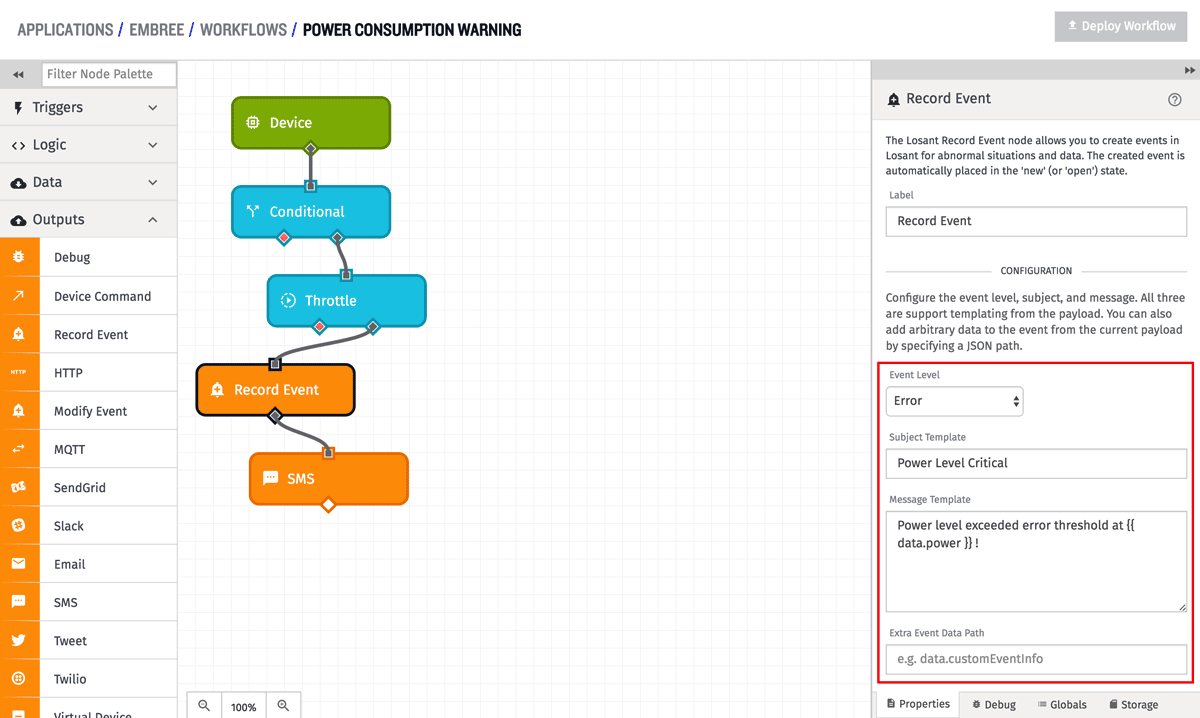
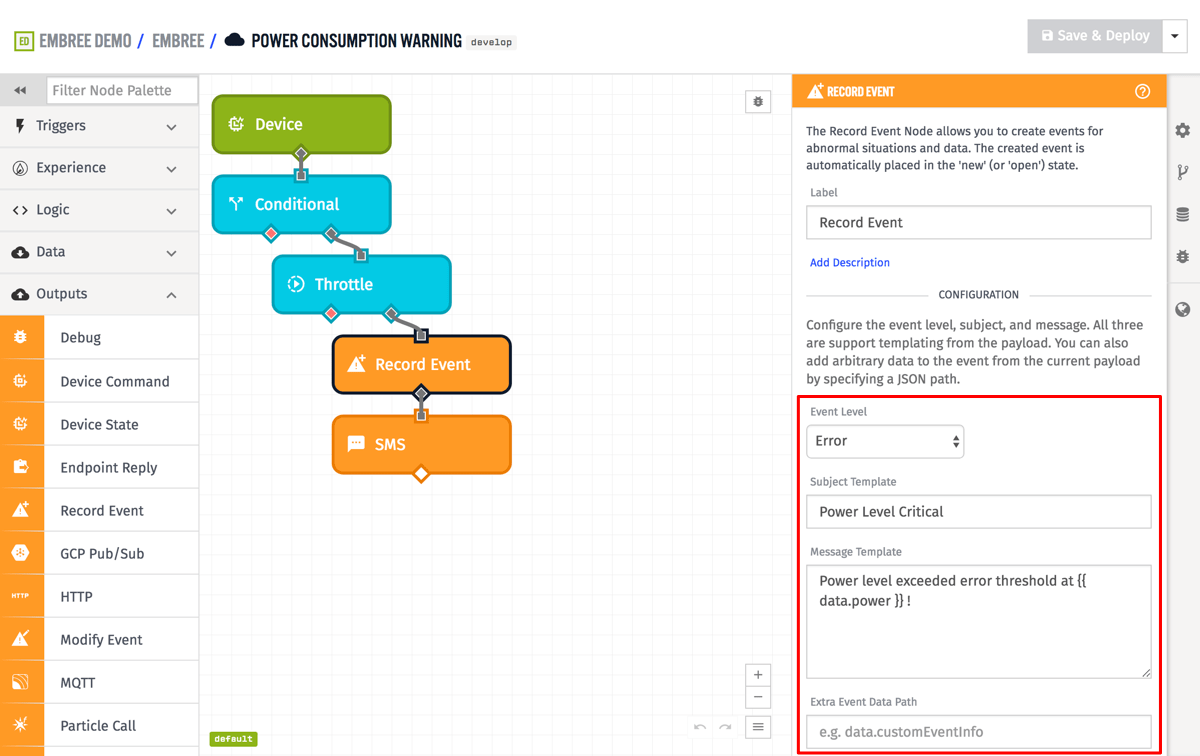
update record event node docs

diff --git a/docs/workflows/outputs/record-event.md b/docs/workflows/outputs/record-event.md
@@ -19,6 +19,12 @@ The subject of the event, as well as the message, also support [string templates
 
 An event can also be optionally created with some structured data attached, by providing a [payload path](/workflows/accessing-payload-data/#payload-paths) in the `Extra Event Data Path` field. If provided, this JSON path will be evaluated against the payload and the result will be attached to the event as a JSON object.
 
+## Event Time
+
+![Record Event Node Time Configuration](/images/workflows/outputs/record-event-node-time.png "Record Event Node Time Configuration")
+
+In addition, optionally, the timestamp to use as the creation time of the event can be changed. By default, the current time will be used (the first radio option). But in cases where that timestamp value is not desired, there are two other options - the timestamp of the current workflow payload being processed, or a timestamp on a specified payload path. The current time will often be very similar to the timestamp on the current workflow payload, but not always (depending on the length of time running the workflow takes) - and can in fact be drastically different in the case of non-realtime reports triggering a workflow. When specifying a payload path, the workflow expects the timestamp to conform to the same rules as a timestamp on a [state report](/devices/state/#including-timestamps).
+
 ## Output
 
 ![Record Event Node Output](/images/workflows/outputs/record-event-node-output.png "Record Event Node Output")
